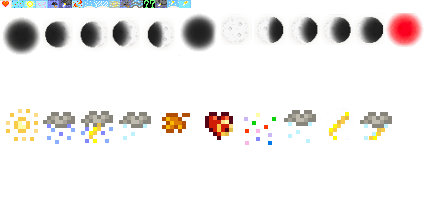
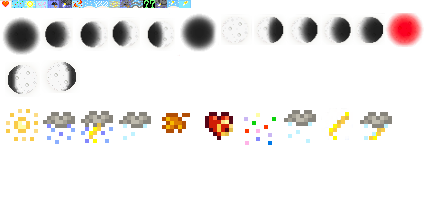
- Resolve issue #40 and #38

Changed region(s): [[0.0, 0.33, 0.0915, 0.48], [0.1221, 0.3, 0.1831, 0.45]]

diff --git a/ClimatesOfFerngill/StaminaDrain.cs b/ClimatesOfFerngill/StaminaDrain.cs
@@ -84,16 +84,27 @@ namespace ClimatesOfFerngillRebuild
             //If it's frost or heatwave during the appropriate time.. you can get sick
 
             //First, update the sick status
-            if (amtOutside >= Config.AffectedOutside && ((Dice.NextDoublePositive() >= Config.ChanceOfGettingSick) || this.FarmerSick))
+            bool farmerCaughtCold = false;
+            double sickOdds = Config.ChanceOfGettingSick - Game1.dailyLuck;
+
+            //weee.
+            if (Game1.player.hat?.which == 28 && conditions.GetCurrentConditions().HasFlag(CurrentWeather.Lightning))
+                sickOdds -= (Dice.NextDoublePositive() / 5.0) - .1;
+
+            if (Game1.player.hat?.which == 25 && conditions.GetCurrentConditions().HasFlag(CurrentWeather.Blizzard))
+                sickOdds -= .22;
+
+            if (Game1.player.hat?.which == 4 && conditions.GetCurrentConditions().HasFlag(CurrentWeather.Heatwave) && !SDVTime.IsNight)
+                sickOdds -= .11;
+
+            farmerCaughtCold = (Dice.NextDoublePositive() <= sickOdds);
+
+
+            if (amtOutside >= Config.AffectedOutside && farmerCaughtCold || this.FarmerSick)
             {
                 //check if it's a valid condition
                 if (conditions.GetCurrentConditions().HasAnyFlags(CurrentWeather.Blizzard | CurrentWeather.Lightning) || (conditions.GetCurrentConditions().HasFlag(CurrentWeather.Frost) && SDVTime.IsNight) | (conditions.GetCurrentConditions().HasFlag(CurrentWeather.Heatwave) && !SDVTime.IsNight) && FarmerCanGetSick())
-                {
                     this.MakeSick();
-
-                    if (Config.Verbose)
-                        Monitor.Log("Making the farmer sick");
-                }
 
                 //test status
                 if (Config.Verbose)              

diff --git a/ClimatesOfFerngill/Sprites.cs b/ClimatesOfFerngill/Sprites.cs
@@ -45,11 +45,11 @@ namespace ClimatesOfFerngillRebuild
                     case MoonPhase.FirstQuarter:
                         return Icons.FirstQuarter;
                     case MoonPhase.WaxingGibbeous:
-                        return new Rectangle(0, 0, 0, 0);
+                        return Icons.WaxingGibbeous;
                     case MoonPhase.FullMoon:
                         return Icons.FullMoon;
                     case MoonPhase.WaningGibbeous:
-                        return new Rectangle(0, 0, 0, 0);
+                        return Icons.WaningGibbeous;
                     case MoonPhase.ThirdQuarter:
                         return Icons.ThirdQuarter;
                     case MoonPhase.WaningCrescent:
@@ -127,6 +127,8 @@ namespace ClimatesOfFerngillRebuild
             public static readonly Rectangle WaningCrescent1 = new Rectangle(287, 12, 34, 36);
             public static readonly Rectangle WaningCrescent2 = new Rectangle(322, 12, 32, 37);
             public static readonly Rectangle WaningCrescent3 = new Rectangle(356, 14, 29, 32);
+            public static readonly Rectangle WaxingGibbeous = new Rectangle(5, 60, 36, 40);
+            public static readonly Rectangle WaningGibbeous = new Rectangle(40, 58, 40, 36);
             public static readonly Rectangle BloodMoon = new Rectangle(385, 9, 38, 38);
 
             //Weather

diff --git a/ClimatesOfFerngill/SDVMoon.cs b/ClimatesOfFerngill/SDVMoon.cs
@@ -148,6 +148,9 @@ namespace ClimatesOfFerngillRebuild
             if (f == null)
                 return;
 
+            if (Dice.NextDoublePositive() < .20)
+                return;
+
             int cropsAffected = 0;
 
             //moon processing
@@ -219,7 +222,10 @@ namespace ClimatesOfFerngillRebuild
 
             Beach b = Game1.getLocationFromName("Beach") as Beach;
             int itemsChanged = 0;
-            
+
+            if (Dice.NextDoublePositive() < .20)
+                return;
+
             //new moon processing
             if (CurrentPhase == MoonPhase.NewMoon)
             {

diff --git a/ClimatesOfFerngill/README.md b/ClimatesOfFerngill/README.md
@@ -66,6 +66,8 @@ v1.2rc2 (v1.3-beta1)
 - stamina system overhauled that you won't get sick from something you can't suffer from events at the time.
 - bad moon rising: blood moons will appear.
 - new sprites, thanks to eemie, that more closely match the vanilla ones!
+- lunar events now have a 20% chance to not trigger
+- stamina system now factors in luck and a few other things.
 
 v1.1.12p5
  - overhauled stamina system to correct an odd error. See writeup for more details.
@@ -173,3 +175,5 @@ over a certain value.). Valid 0-1, but it's recommended that this is kept low. D
  - 'ChanceOfGettingSick' - Controls the chance you'll get sick when conditions are matched. Default is set to '.7' for (70% chance). Valid Range is 0 to 1.
 
  - 'Use12HourTime' - Tells it whether or not to use 12hour time or not in displays. Defaults to false.
+
+ - 'BadMoonRising' - Chance of a blood moon on a full moon. Default: .004 (.4%). Valid Range is 0 to 1.
